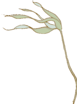
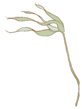
- added flipped corals

Changed region(s): [[0.026, 0.0, 1.0, 1.0]]

diff --git a/assets/tiles/corals_tileset.tsx b/assets/tiles/corals_tileset.tsx
@@ -1,8 +1,8 @@
 <?xml version="1.0" encoding="UTF-8"?>
-<tileset version="1.10" tiledversion="1.10.2" name="corals_tileset" tilewidth="117" tileheight="104" tilecount="36" columns="0">
+<tileset version="1.10" tiledversion="1.10.2" name="corals_tileset" tilewidth="117" tileheight="109" tilecount="48" columns="0">
  <grid orientation="orthogonal" width="1" height="1"/>
  <tile id="0">
-  <image width="77" height="104" source="../images/bg_elements/coral1/frame_00_delay-0.08s.png"/>
+  <image width="82" height="109" source="../images/bg_elements/coral1/frame_00_delay-0.08s.png"/>
   <animation>
    <frame tileid="0" duration="170"/>
    <frame tileid="1" duration="170"/>
@@ -13,19 +13,19 @@
   </animation>
  </tile>
  <tile id="1">
-  <image width="77" height="104" source="../images/bg_elements/coral1/frame_01_delay-0.09s.png"/>
+  <image width="82" height="109" source="../images/bg_elements/coral1/frame_01_delay-0.09s.png"/>
  </tile>
  <tile id="2">
-  <image width="77" height="104" source="../images/bg_elements/coral1/frame_02_delay-0.08s.png"/>
+  <image width="82" height="109" source="../images/bg_elements/coral1/frame_02_delay-0.08s.png"/>
  </tile>
  <tile id="3">
-  <image width="77" height="104" source="../images/bg_elements/coral1/frame_03_delay-0.08s.png"/>
+  <image width="82" height="109" source="../images/bg_elements/coral1/frame_03_delay-0.08s.png"/>
  </tile>
  <tile id="4">
-  <image width="77" height="104" source="../images/bg_elements/coral1/frame_04_delay-0.09s.png"/>
+  <image width="82" height="109" source="../images/bg_elements/coral1/frame_04_delay-0.09s.png"/>
  </tile>
  <tile id="5">
-  <image width="77" height="104" source="../images/bg_elements/coral1/frame_05_delay-0.08s.png"/>
+  <image width="82" height="109" source="../images/bg_elements/coral1/frame_05_delay-0.08s.png"/>
  </tile>
  <tile id="6">
   <image width="57" height="40" source="../images/bg_elements/coral2/frame_00_delay-0.08s-copy-0.png"/>
@@ -106,7 +106,7 @@
   <image width="24" height="22" source="../images/bg_elements/coral4/frame_00_delay-0.08s-copy-2.png"/>
  </tile>
  <tile id="24">
-  <image width="54" height="95" source="../images/bg_elements/coral5/frame_00_delay-0.08s-copy-3.png"/>
+  <image width="59" height="100" source="../images/bg_elements/coral5/frame_00_delay-0.08s-copy-3.png"/>
   <animation>
    <frame tileid="24" duration="350"/>
    <frame tileid="25" duration="350"/>
@@ -117,22 +117,22 @@
   </animation>
  </tile>
  <tile id="25">
-  <image width="54" height="95" source="../images/bg_elements/coral5/frame_01_delay-0.09s-copy-3.png"/>
+  <image width="59" height="100" source="../images/bg_elements/coral5/frame_01_delay-0.09s-copy-3.png"/>
  </tile>
  <tile id="26">
-  <image width="54" height="95" source="../images/bg_elements/coral5/frame_02_delay-0.08s-copy-3.png"/>
+  <image width="59" height="100" source="../images/bg_elements/coral5/frame_02_delay-0.08s-copy-3.png"/>
  </tile>
  <tile id="27">
-  <image width="54" height="95" source="../images/bg_elements/coral5/frame_03_delay-0.08s-copy-3.png"/>
+  <image width="59" height="100" source="../images/bg_elements/coral5/frame_03_delay-0.08s-copy-3.png"/>
  </tile>
  <tile id="28">
-  <image width="54" height="95" source="../images/bg_elements/coral5/frame_04_delay-0.09s-copy-3.png"/>
+  <image width="59" height="100" source="../images/bg_elements/coral5/frame_04_delay-0.09s-copy-3.png"/>
  </tile>
  <tile id="29">
-  <image width="54" height="95" source="../images/bg_elements/coral5/frame_05_delay-0.08s-copy-3.png"/>
+  <image width="59" height="100" source="../images/bg_elements/coral5/frame_05_delay-0.08s-copy-3.png"/>
  </tile>
  <tile id="30">
-  <image width="29" height="79" source="../images/bg_elements/coral6/frame_00_delay-0.04s.png"/>
+  <image width="34" height="84" source="../images/bg_elements/coral6/frame_00_delay-0.04s.png"/>
   <animation>
    <frame tileid="30" duration="350"/>
    <frame tileid="31" duration="350"/>
@@ -143,18 +143,70 @@
   </animation>
  </tile>
  <tile id="31">
-  <image width="29" height="79" source="../images/bg_elements/coral6/frame_01_delay-0.04s.png"/>
+  <image width="34" height="84" source="../images/bg_elements/coral6/frame_01_delay-0.04s.png"/>
  </tile>
  <tile id="32">
-  <image width="29" height="79" source="../images/bg_elements/coral6/frame_02_delay-0.05s.png"/>
+  <image width="34" height="84" source="../images/bg_elements/coral6/frame_02_delay-0.05s.png"/>
  </tile>
  <tile id="33">
-  <image width="29" height="79" source="../images/bg_elements/coral6/frame_03_delay-0.04s.png"/>
+  <image width="34" height="84" source="../images/bg_elements/coral6/frame_03_delay-0.04s.png"/>
  </tile>
  <tile id="34">
-  <image width="29" height="79" source="../images/bg_elements/coral6/frame_04_delay-0.04s.png"/>
+  <image width="34" height="84" source="../images/bg_elements/coral6/frame_04_delay-0.04s.png"/>
  </tile>
  <tile id="35">
-  <image width="29" height="79" source="../images/bg_elements/coral6/frame_05_delay-0.04s.png"/>
+  <image width="34" height="84" source="../images/bg_elements/coral6/frame_05_delay-0.04s.png"/>
+ </tile>
+ <tile id="36">
+  <image width="34" height="84" source="../images/bg_elements/coral_6_flip/coral6_frame1.png"/>
+  <animation>
+   <frame tileid="36" duration="350"/>
+   <frame tileid="37" duration="350"/>
+   <frame tileid="38" duration="350"/>
+   <frame tileid="39" duration="350"/>
+   <frame tileid="40" duration="350"/>
+   <frame tileid="41" duration="350"/>
+  </animation>
+ </tile>
+ <tile id="37">
+  <image width="34" height="84" source="../images/bg_elements/coral_6_flip/coral6_frame2.png"/>
+ </tile>
+ <tile id="38">
+  <image width="34" height="84" source="../images/bg_elements/coral_6_flip/coral6_frame3.png"/>
+ </tile>
+ <tile id="39">
+  <image width="34" height="84" source="../images/bg_elements/coral_6_flip/coral6_frame4.png"/>
+ </tile>
+ <tile id="40">
+  <image width="34" height="84" source="../images/bg_elements/coral_6_flip/coral6_frame5.png"/>
+ </tile>
+ <tile id="41">
+  <image width="34" height="84" source="../images/bg_elements/coral_6_flip/coral6_frame6.png"/>
+ </tile>
+ <tile id="42">
+  <image width="82" height="109" source="../images/bg_elements/coral_1_flip/coral1_frame1.png"/>
+  <animation>
+   <frame tileid="42" duration="350"/>
+   <frame tileid="43" duration="350"/>
+   <frame tileid="44" duration="350"/>
+   <frame tileid="45" duration="350"/>
+   <frame tileid="46" duration="350"/>
+   <frame tileid="47" duration="350"/>
+  </animation>
+ </tile>
+ <tile id="43">
+  <image width="82" height="109" source="../images/bg_elements/coral_1_flip/coral1_frame2.png"/>
+ </tile>
+ <tile id="44">
+  <image width="82" height="109" source="../images/bg_elements/coral_1_flip/coral1_frame3.png"/>
+ </tile>
+ <tile id="45">
+  <image width="82" height="109" source="../images/bg_elements/coral_1_flip/coral1_frame4.png"/>
+ </tile>
+ <tile id="46">
+  <image width="82" height="109" source="../images/bg_elements/coral_1_flip/coral1_frame5.png"/>
+ </tile>
+ <tile id="47">
+  <image width="82" height="109" source="../images/bg_elements/coral_1_flip/coral1_frame6.png"/>
  </tile>
 </tileset>
